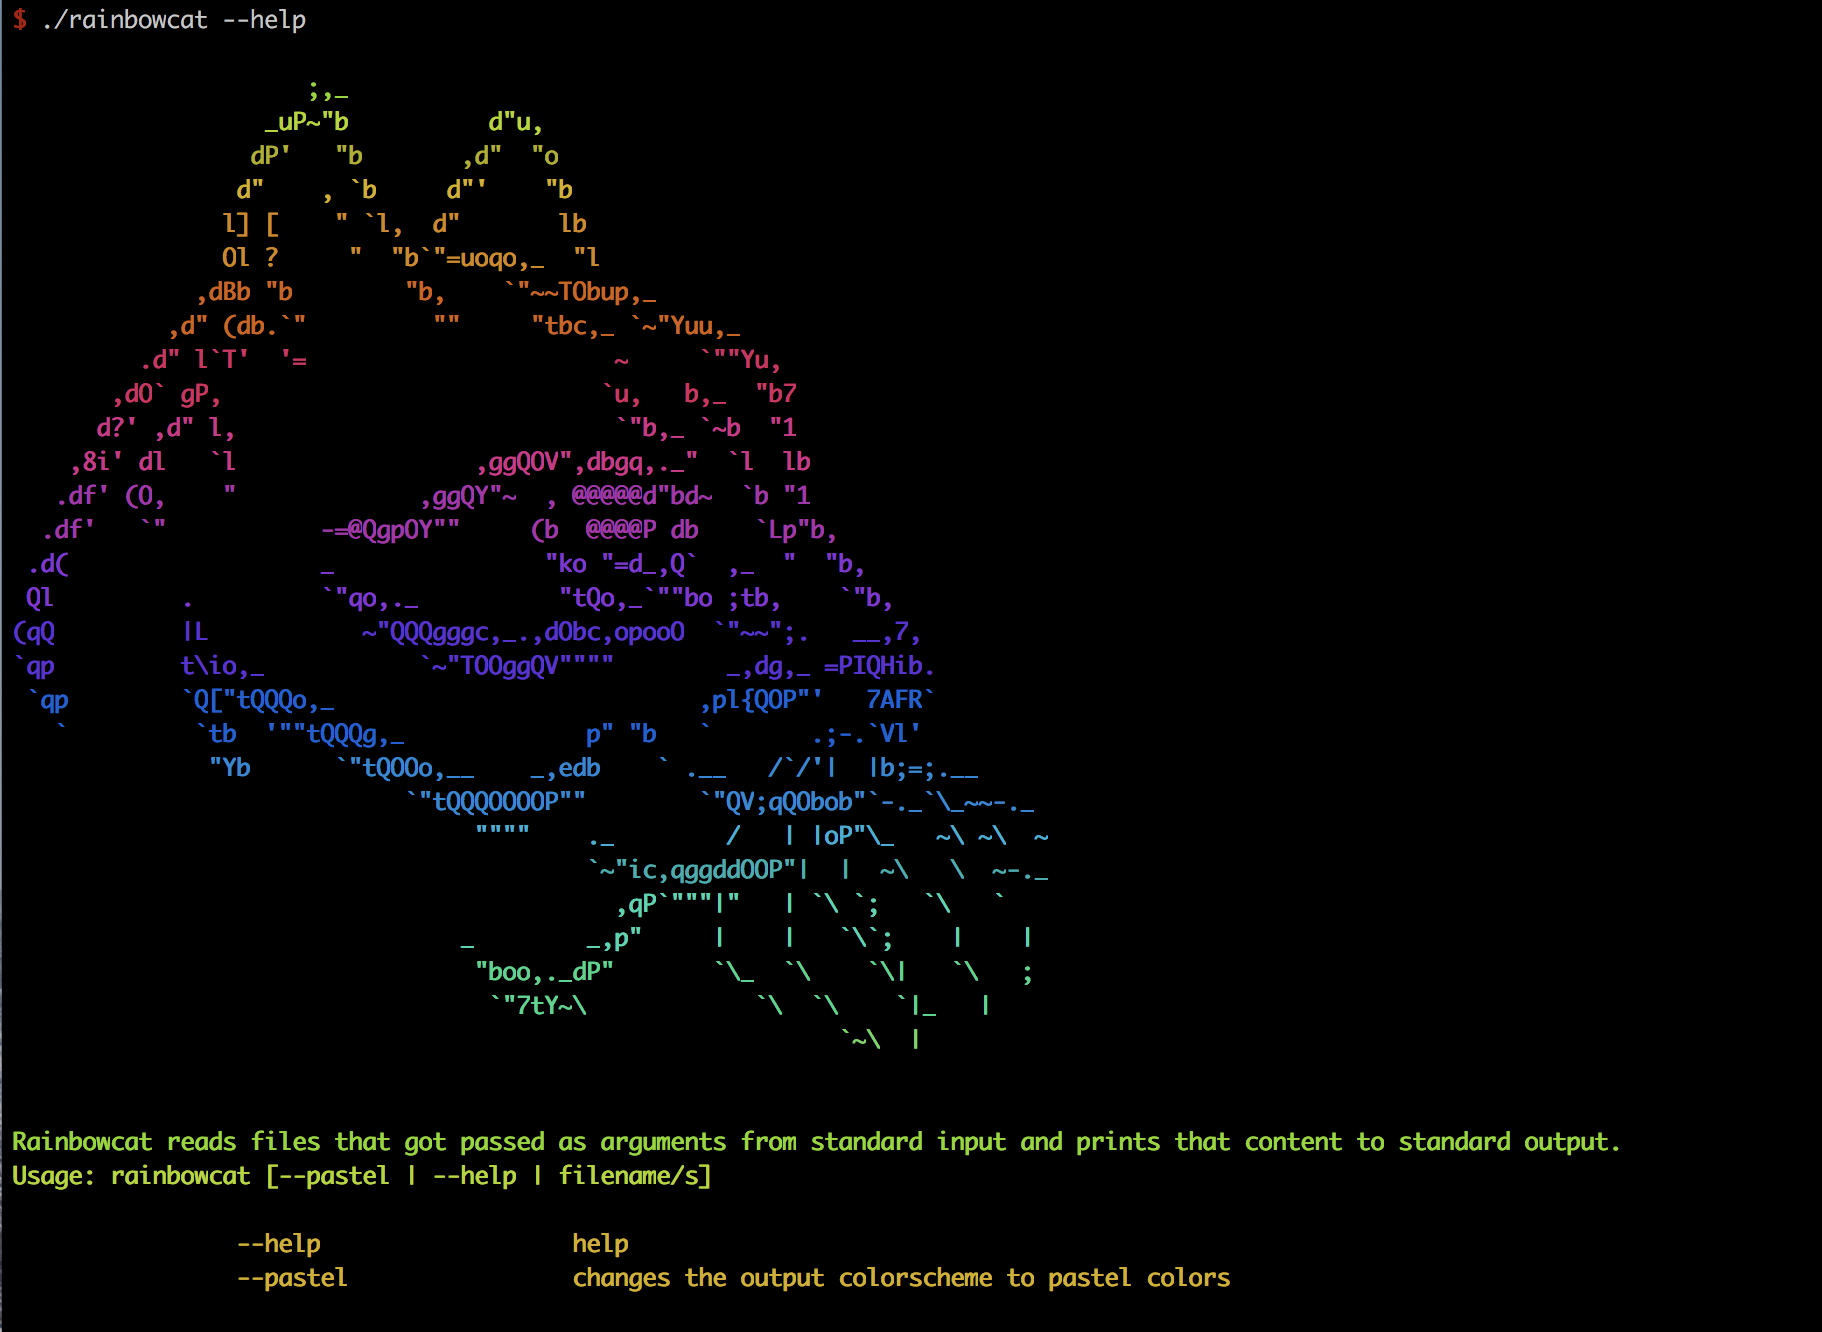
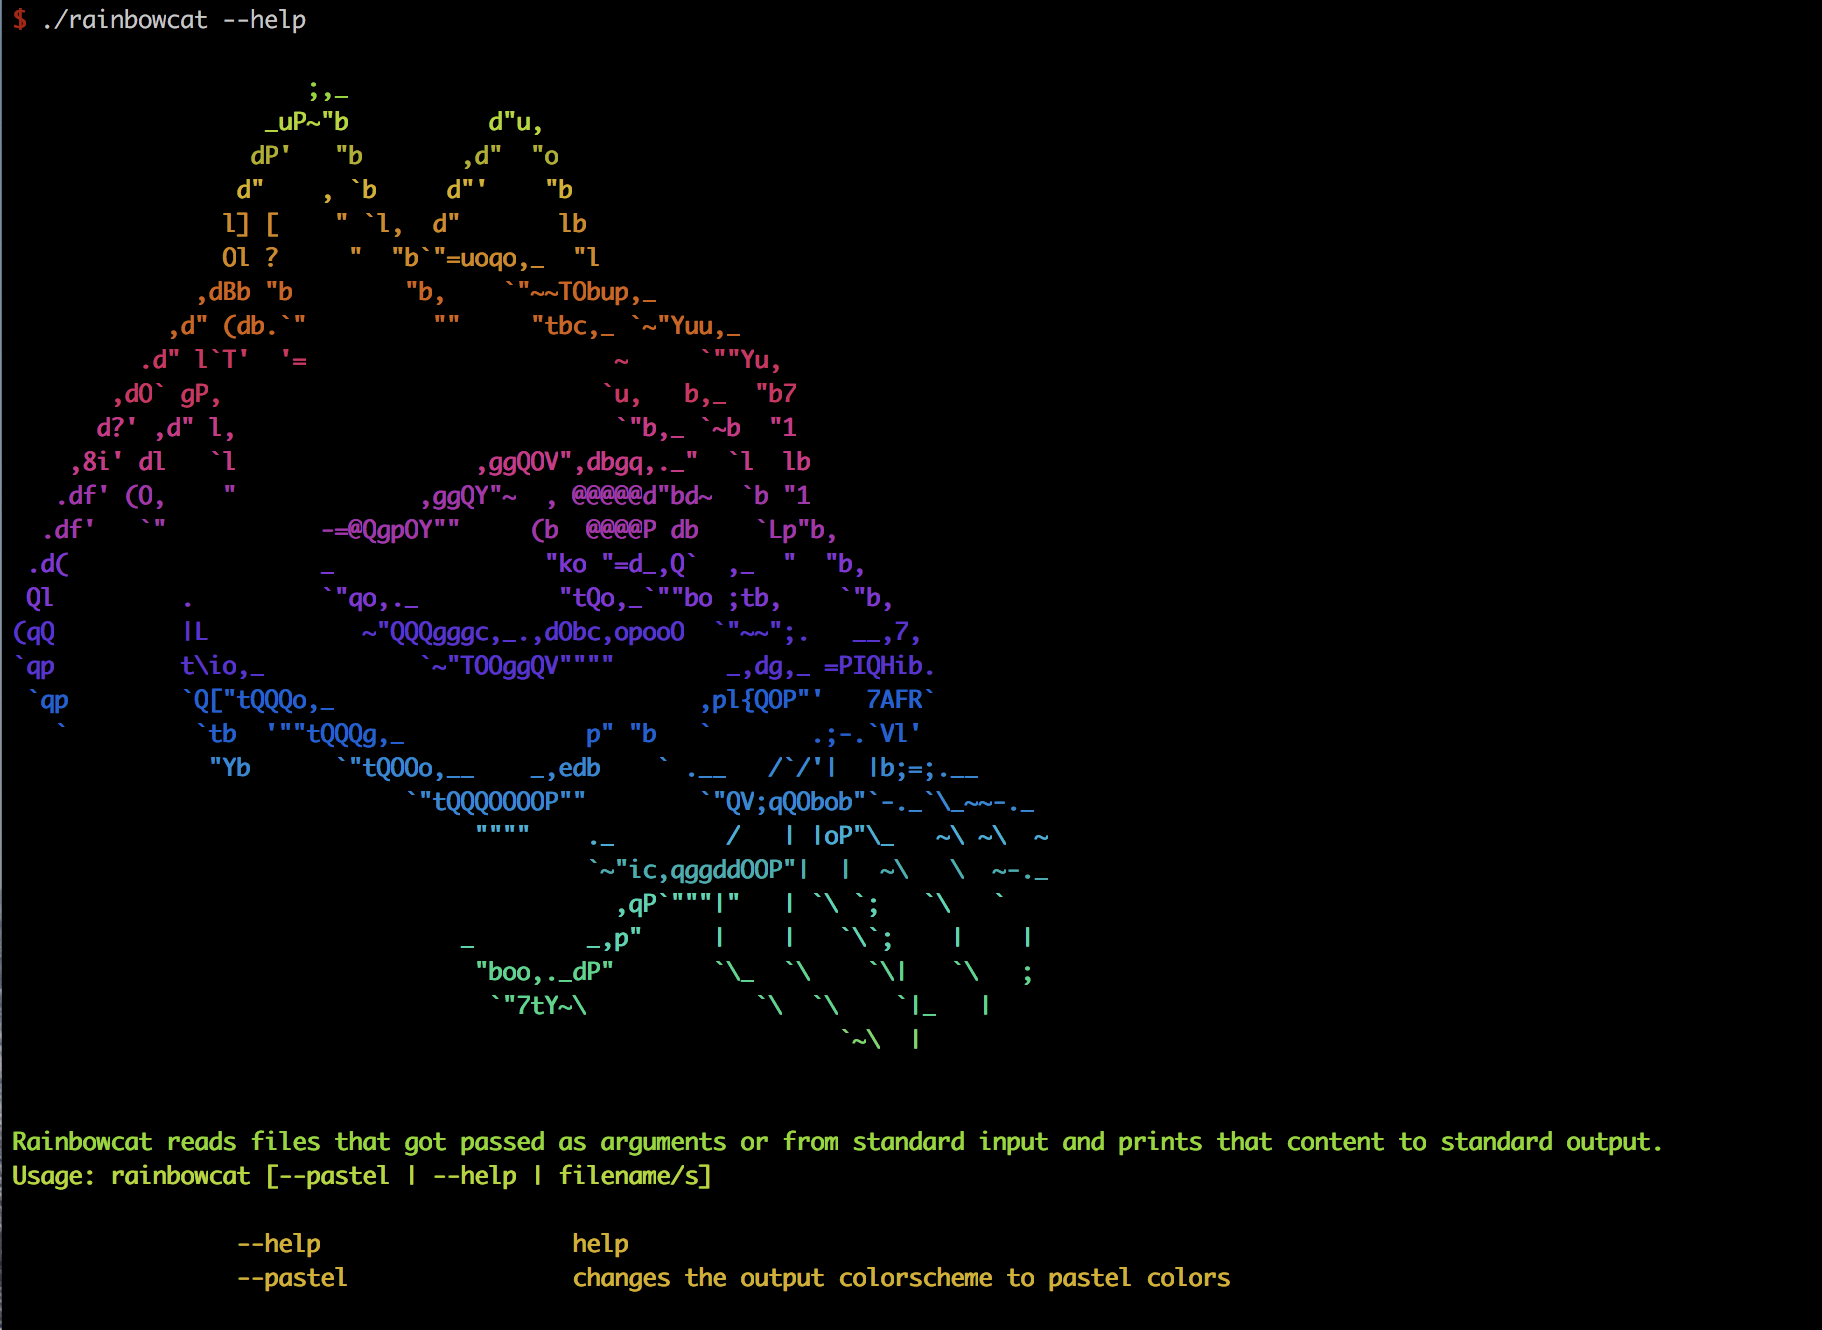
type

diff --git a/README.md b/README.md
@@ -1,7 +1,7 @@
 # Rainbowcat
 ![rainbowcat screenshot](https://github.com/cmicheledelaney/rainbowcat/blob/master/.screenshot_rainbowcat.png)
 
-My own, simple, more colorful version of the cat command. Prints files passed as argument or redirected to standard input to standard output in rainbow colors.
+My own, simple, more colorful version of the cat command. Prints files that got passed as argument or redirected to standard input to standard output in rainbow colors.
 You can choose between two settings, the default one and the pastel one.
 
 Usage: ./rainbowcat [--pastel | --help | filename/s]
